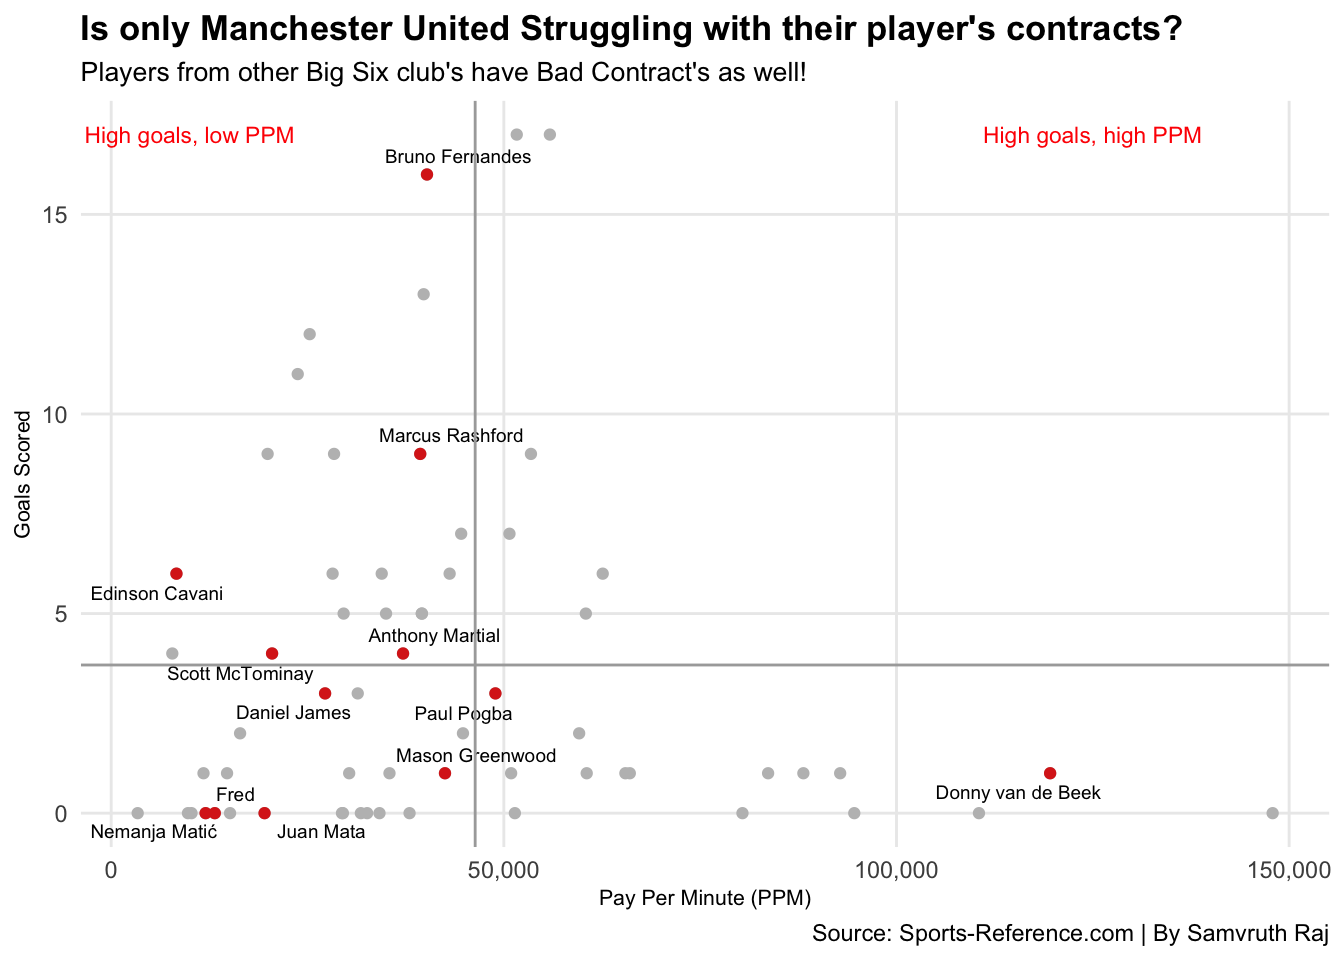
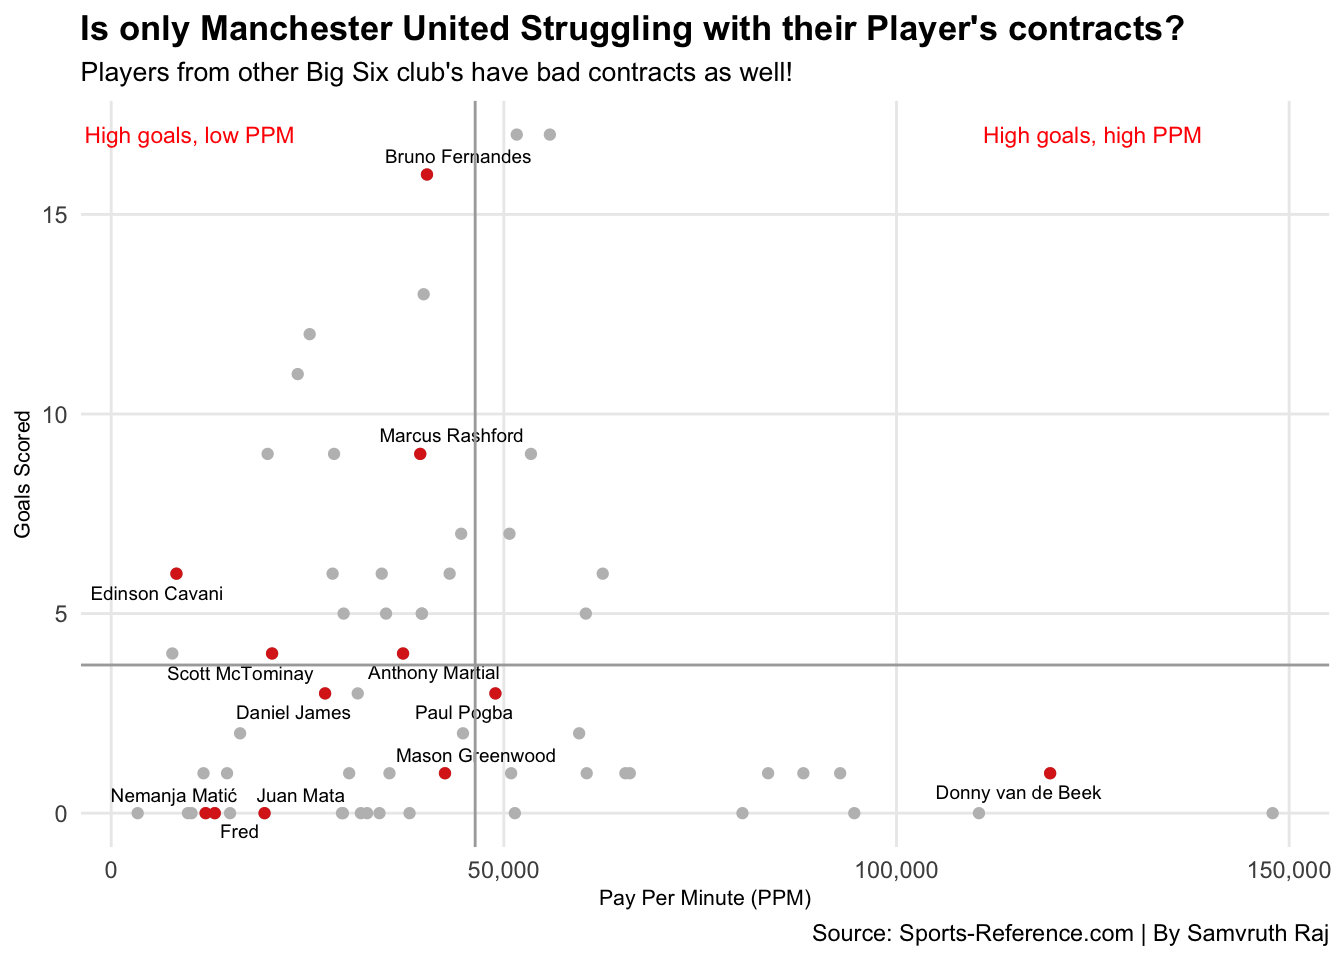
Hopefully one last time.

diff --git a/2021/04/01/do-manchester-united-players-have-the-worst-contracts-amongst-the-big-6-clubs/index.html b/2021/04/01/do-manchester-united-players-have-the-worst-contracts-amongst-the-big-6-clubs/index.html
@@ -178,8 +178,8 @@ MU &lt;- AttackPPm %&gt;%
   scale_x_continuous(labels = comma) + 
   labs(x=&quot;Pay Per Minute (PPM)&quot;, 
        y=&quot;Goals Scored&quot;, 
-       title=&quot;Is only Manchester United Struggling with their player&#39;s contracts?&quot;, 
-       subtitle=&quot;Players from other Big Six club&#39;s have Bad Contract&#39;s as well!&quot;, 
+       title=&quot;Is only Manchester United Struggling with their Player&#39;s contracts?&quot;, 
+       subtitle=&quot;Players from other Big Six club&#39;s have bad contracts as well!&quot;, 
        caption=&quot;Source: Sports-Reference.com | By Samvruth Raj&quot;) + 
   theme_minimal() + 
   theme(
